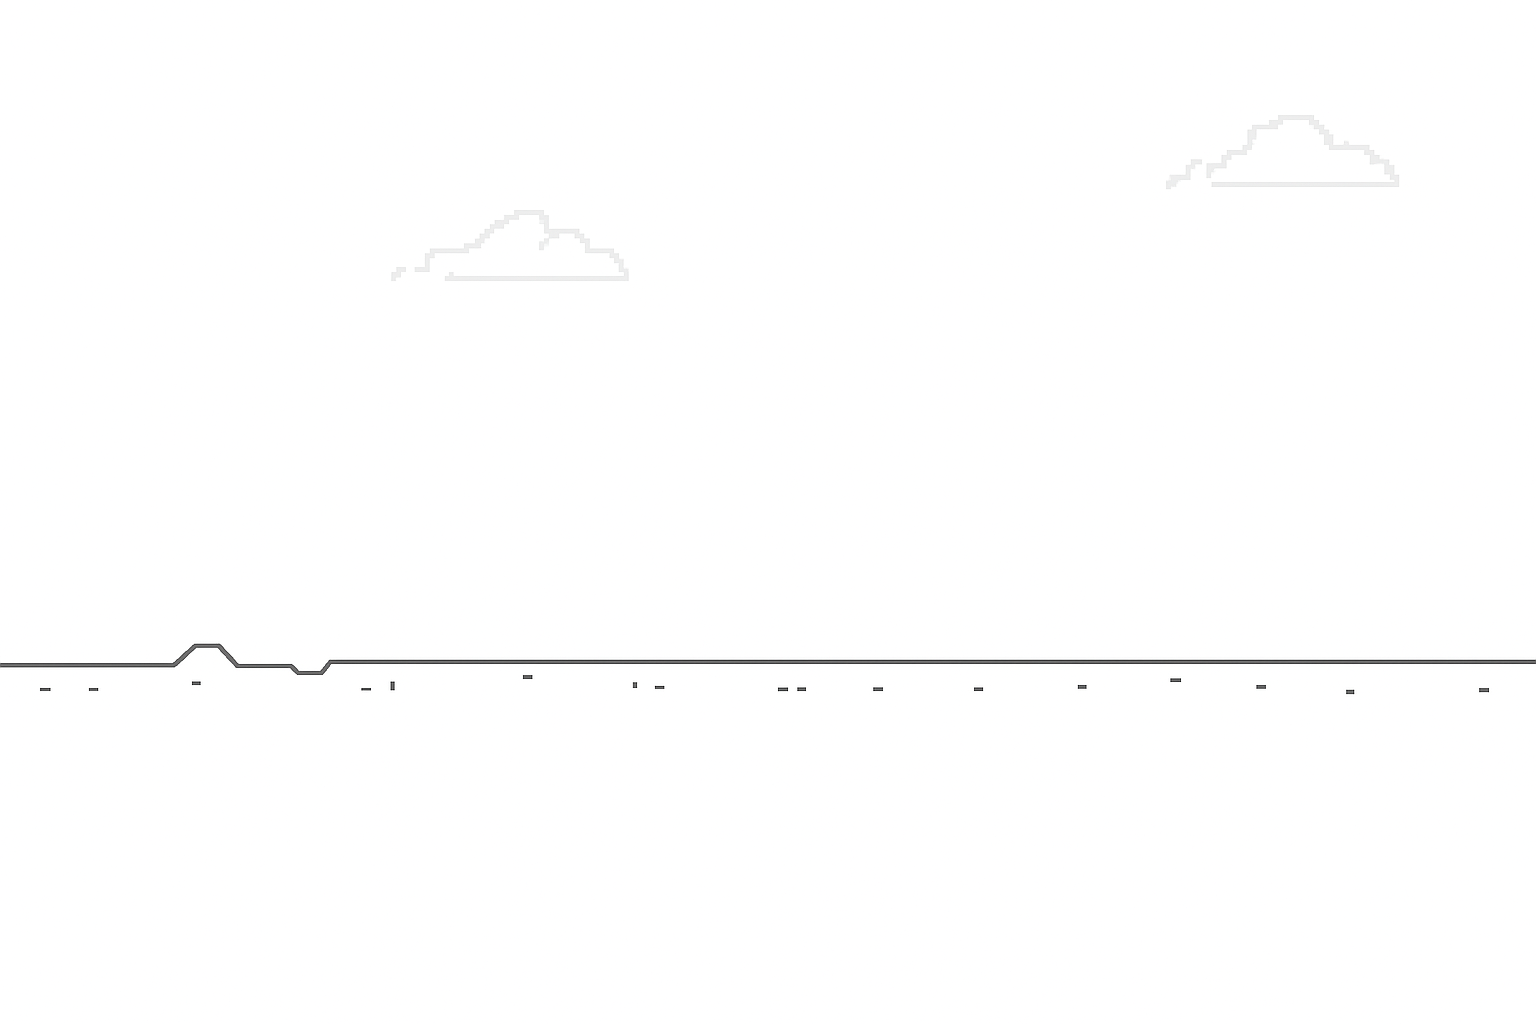
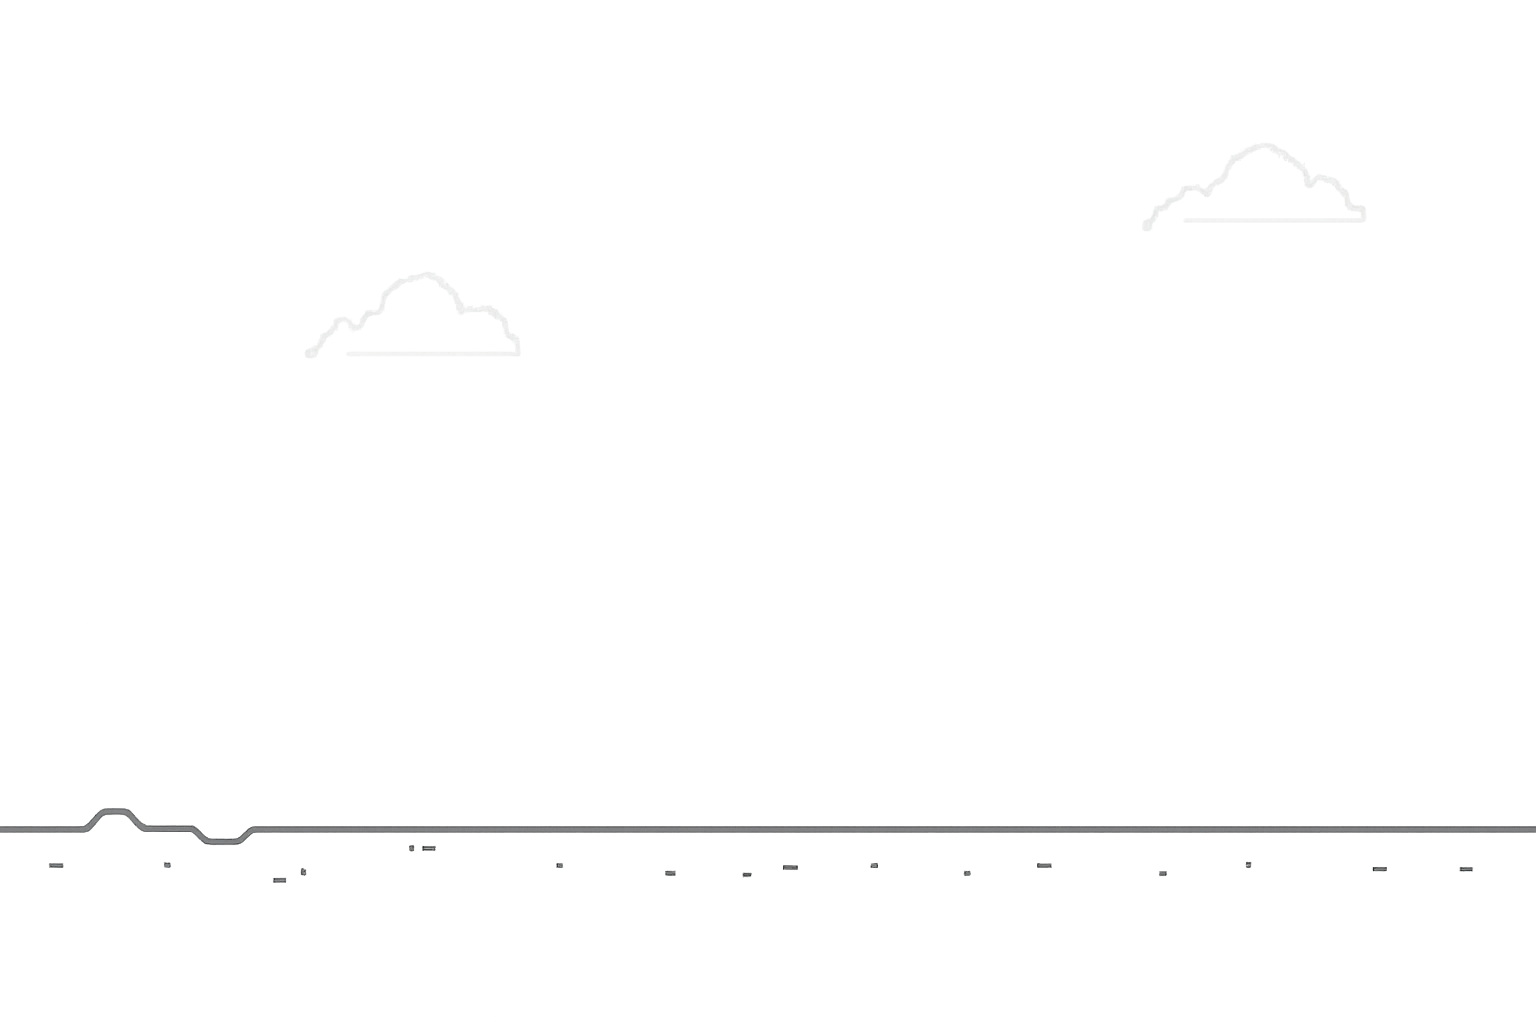
Added Game Start

diff --git a/TheWebNotHaveFunction/CSS/LV2/ForLV2.css b/TheWebNotHaveFunction/CSS/LV2/ForLV2.css
@@ -1,7 +1,6 @@
-#theOffScreen
-{
+#theOffScreen {
     position: absolute;
-    left: 50%;  
+    left: 50%;
     top: 73%;
     font-size: 70px;
     cursor: pointer;
@@ -10,29 +9,121 @@
     white-space: nowrap;
 }
 
+.mask {
+    position: fixed;
+    top: 0%;
+    width: 50%;
+    height: 250px;
+    background-color: white;
+    z-index: 3;
+  }
+  
+  #maskA {
+    left: 0;
+    transition: left 1.5s ease, top 1s ease;
+  }
+  
+  #maskB {
+    right: 0;
+    transition: right 1.5s ease, top 1s ease;
+  }
+
+#gameBackGround {
+    position: absolute;
+    top: 22%;
+    left: 50%;
+    transform: translate(-50%, -50%);
+    z-index: 1;
+    display: flex;
+    justify-content: center;
+    align-items: center;
+}
+
+#theDinosaur {
+    position: absolute;
+    top: 27%;
+    left: 30%;
+    transform: translate(-50%, -50%);
+    z-index: 5;
+    display: flex;
+    justify-content: center;
+    align-items: center;
+}
+
+#TheCactus {
+    position: absolute;
+    top: 27%;
+    left: 65%;
+    transform: translate(-50%, -50%);
+    z-index: 2;
+    display: flex;
+    justify-content: center;
+    align-items: center;
+}
+
+#theDinosaur img{
+    image-rendering: pixelated;
+    width: auto;
+    height: auto;
+    max-width: 15%;
+}
+
+
+#TheCactus img {
+    image-rendering: pixelated;
+    width: auto;
+    height: auto;
+    max-width: 15%;
+}
+
+#gameBackGround img {
+    image-rendering: pixelated;
+    width: 700px;
+    height: 200px;
+}
+
+
 #errorScreen {
     font-family: "Arial", sans-serif;
     position: fixed;
     top: 50%;
     left: 50%;
-    transform: translate(-50%, -50%);
+    transform: translate(-120%, -50%);
     color: #333;
     font-size: 16px;
     line-height: 1.6;
-    text-align: left; /* 讓整塊內容靠左 */
-    width: 300px;     /* 可依需求調整寬度 */
-  }
-  
-  #errorScreen h2 {
+    text-align: left;
+    /* 讓整塊內容靠左 */
+    width: 300px;
+    /* 可依需求調整寬度 */
+}
+
+#errorScreen h2 {
     font-size: 20px;
     font-weight: normal;
     margin-bottom: 10px;
-  }
-  
-  #errorScreen ul {
+}
+
+#errorScreen ul {
     list-style-type: disc;
     padding-left: 20px;
     margin: 0;
-  }
+}
 
-  
+#gameScore {
+    position: absolute;
+    top: 10%;
+    left: 65%;
+    transform: translate(-50%, -50%);
+    z-index: 2;
+    display: flex;
+    justify-content: center;
+    align-items: center;
+    
+    font-family: 'Courier New', monospace;
+    font-size: 18px;
+    color: #666; /* 接近灰色字 */
+    letter-spacing: 2px;
+    font-weight: bold;
+    image-rendering: pixelated;
+  }

diff --git a/TheWebNotHaveFunction/Level_2.html b/TheWebNotHaveFunction/Level_2.html
@@ -9,6 +9,26 @@
 </head>
 
 <body>
+    <div id="maskA" class="mask"></div>
+    <div id="maskB" class="mask"></div>
+
+    <div id="gameScore">
+        <span>HI 114514</span>
+        <span style="margin-left: 20px; color: ＃C0C0C0;">000000</span>
+    </div>
+
+    <div id="theDinosaur">
+        <img src="./img/LV2/Dinosaur.png" />
+    </div>
+
+    <div id="TheCactus">
+        <img src="./img/LV2/Cactus.png" />
+    </div>
+
+    <div id="gameBackGround">
+        <img src="./img/LV2/GameBckGround.png" />
+    </div>
+
     <h2 id="theOffScreen"></h2> <!-- 旁白 -->
 
     <div id="errorScreen">
@@ -23,23 +43,34 @@
     </div>
 
     <script>
+        window.addEventListener("load", function () {
+            setTimeout(() => {
+                openMask();
+            }, 2000); // 10000 毫秒 = 10 秒
+        });
         var inputSpace = 0;
         function clickURL() {
             alert("無法切換網頁，因為沒有這個功能。")
         }
 
+        function openMask() {
+            document.getElementById("maskA").style.left = "-23vw";
+            document.getElementById("maskB").style.right = "-23vw";
+        }
+
         window.addEventListener("keydown", function (event) {
             if (event.code === "Space") {
                 inputSpace++;
-                if(inputSpace == 2)
-                {
+                if (inputSpace == 2) {
                     document.getElementById("theOffScreen").innerText = "空白鍵沒有那種功能，不要再按了！"
                     setTimeout(() => {
                         document.getElementById("theOffScreen").innerText = ""
-                    },2000)
+                    }, 2000)
                 }
             }
         });
+
+
 
     </script>
 </body>
